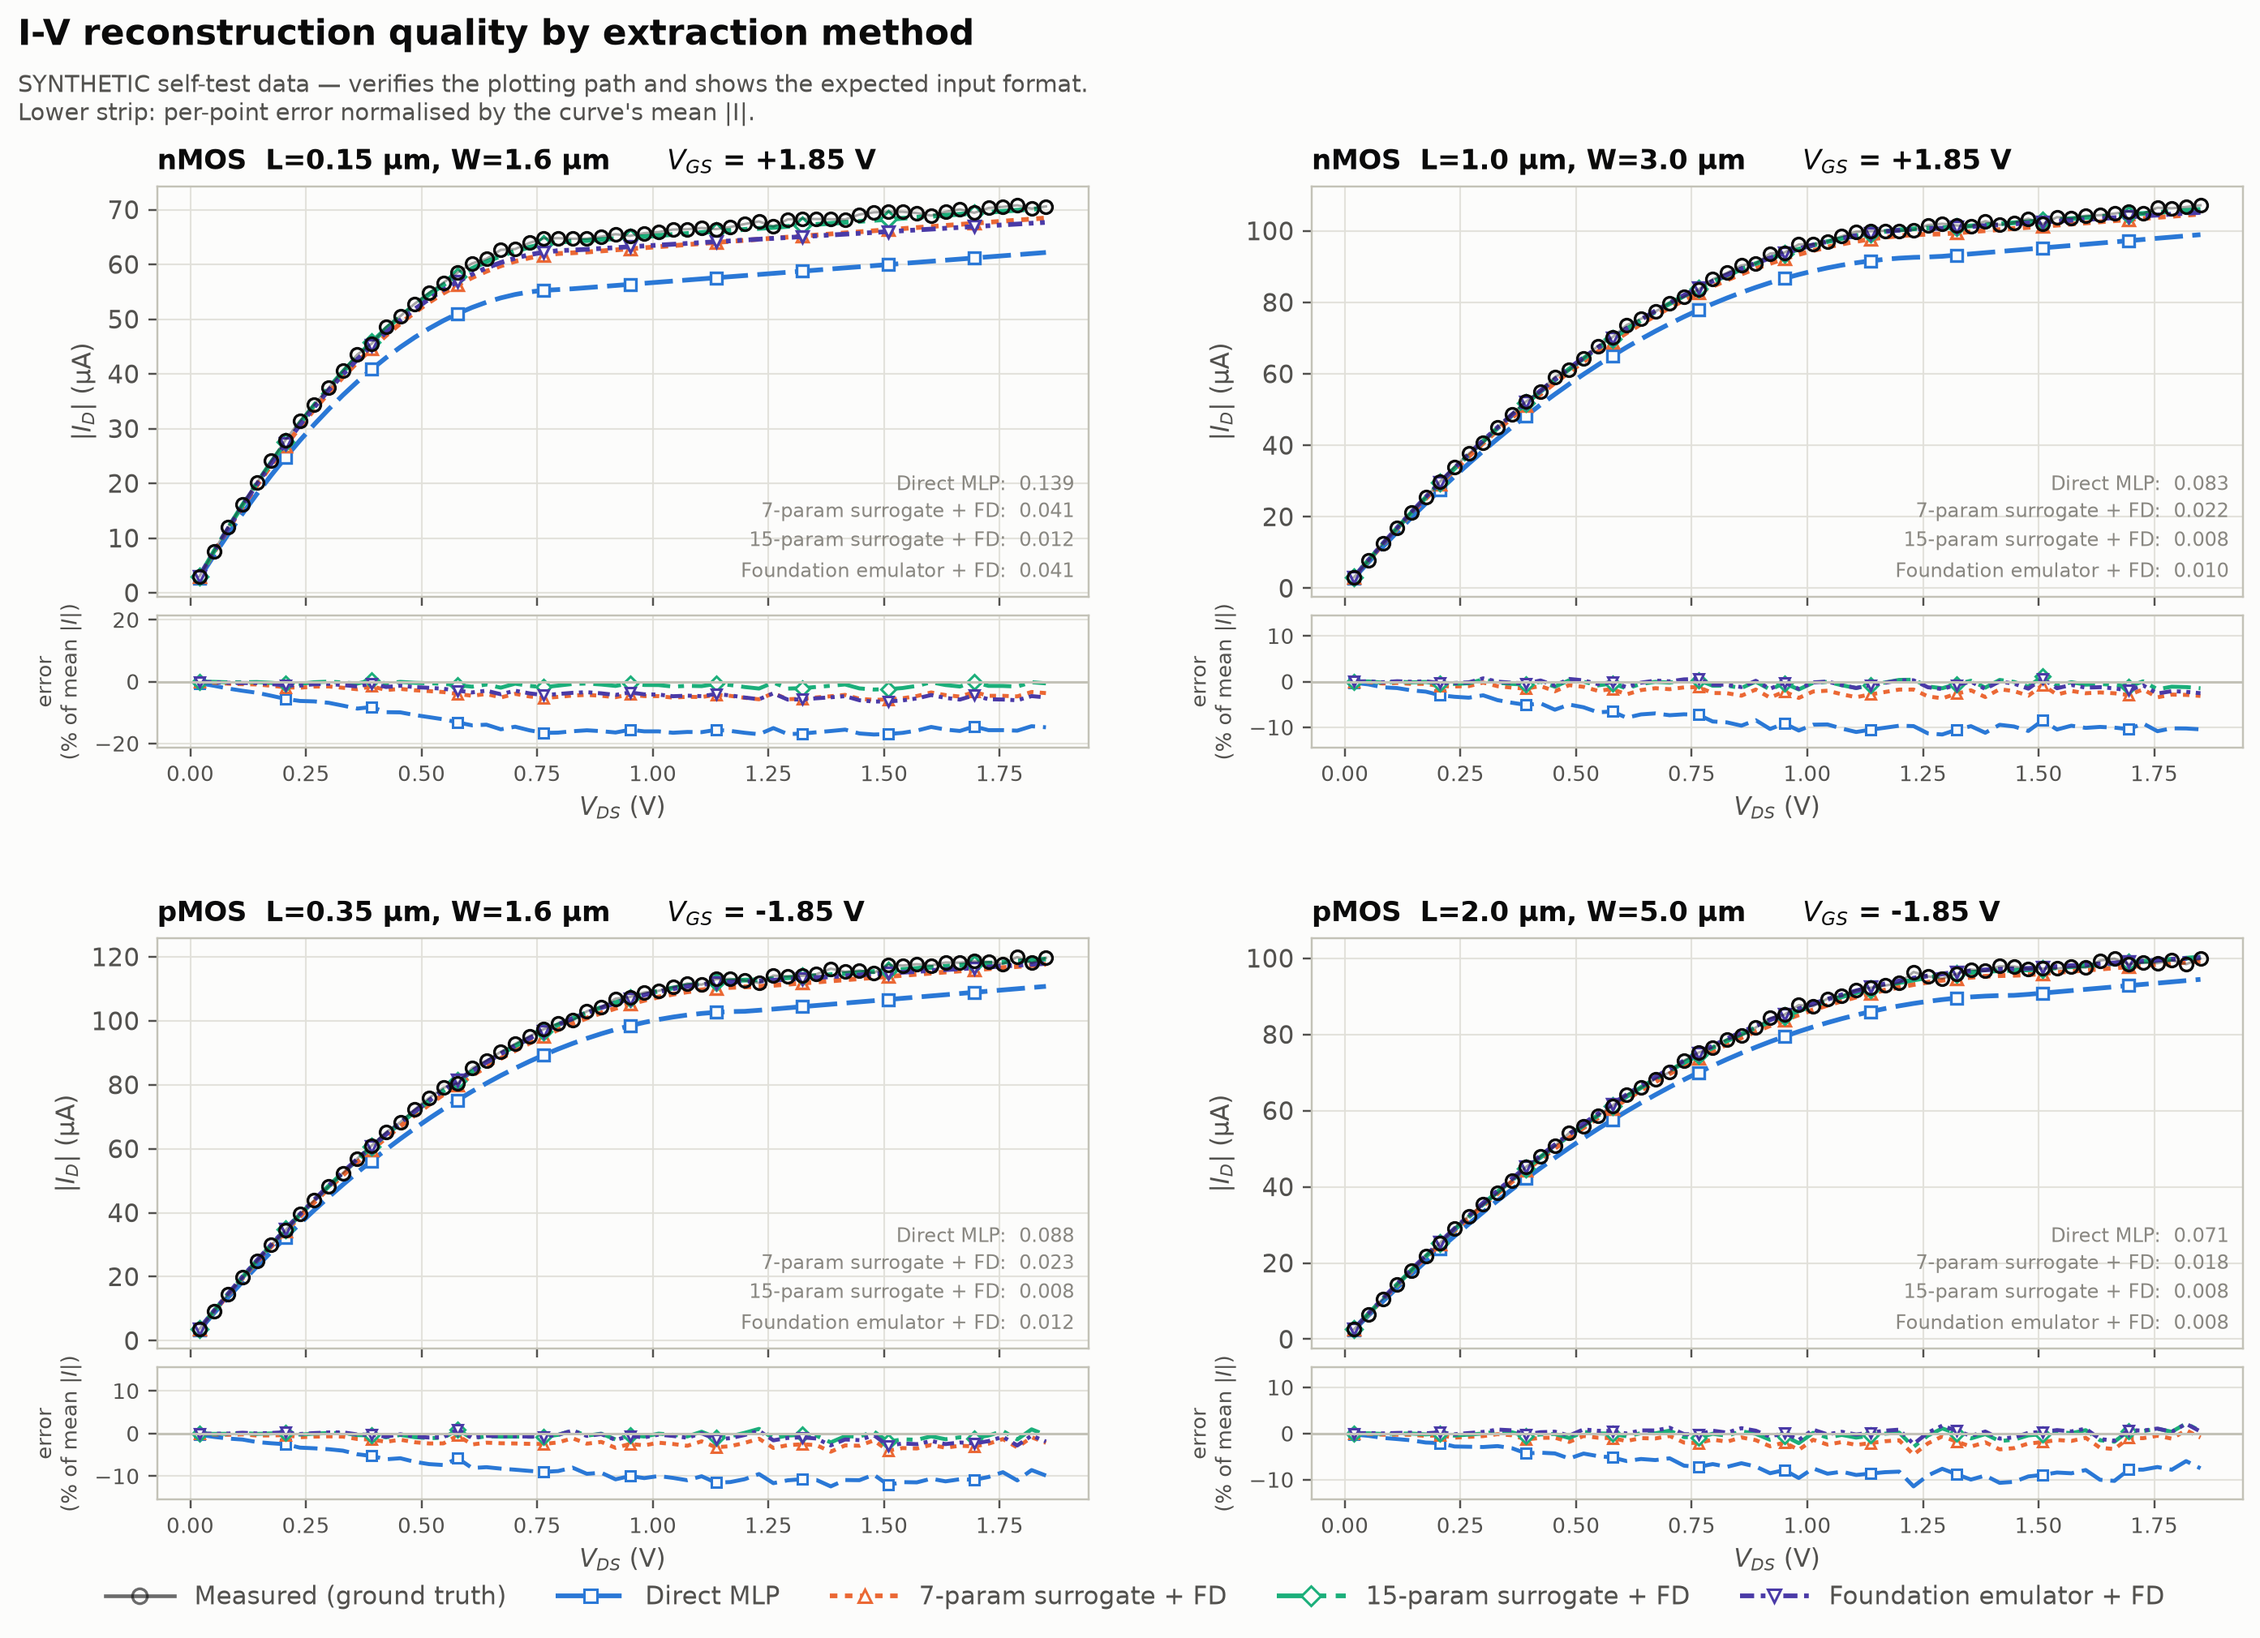
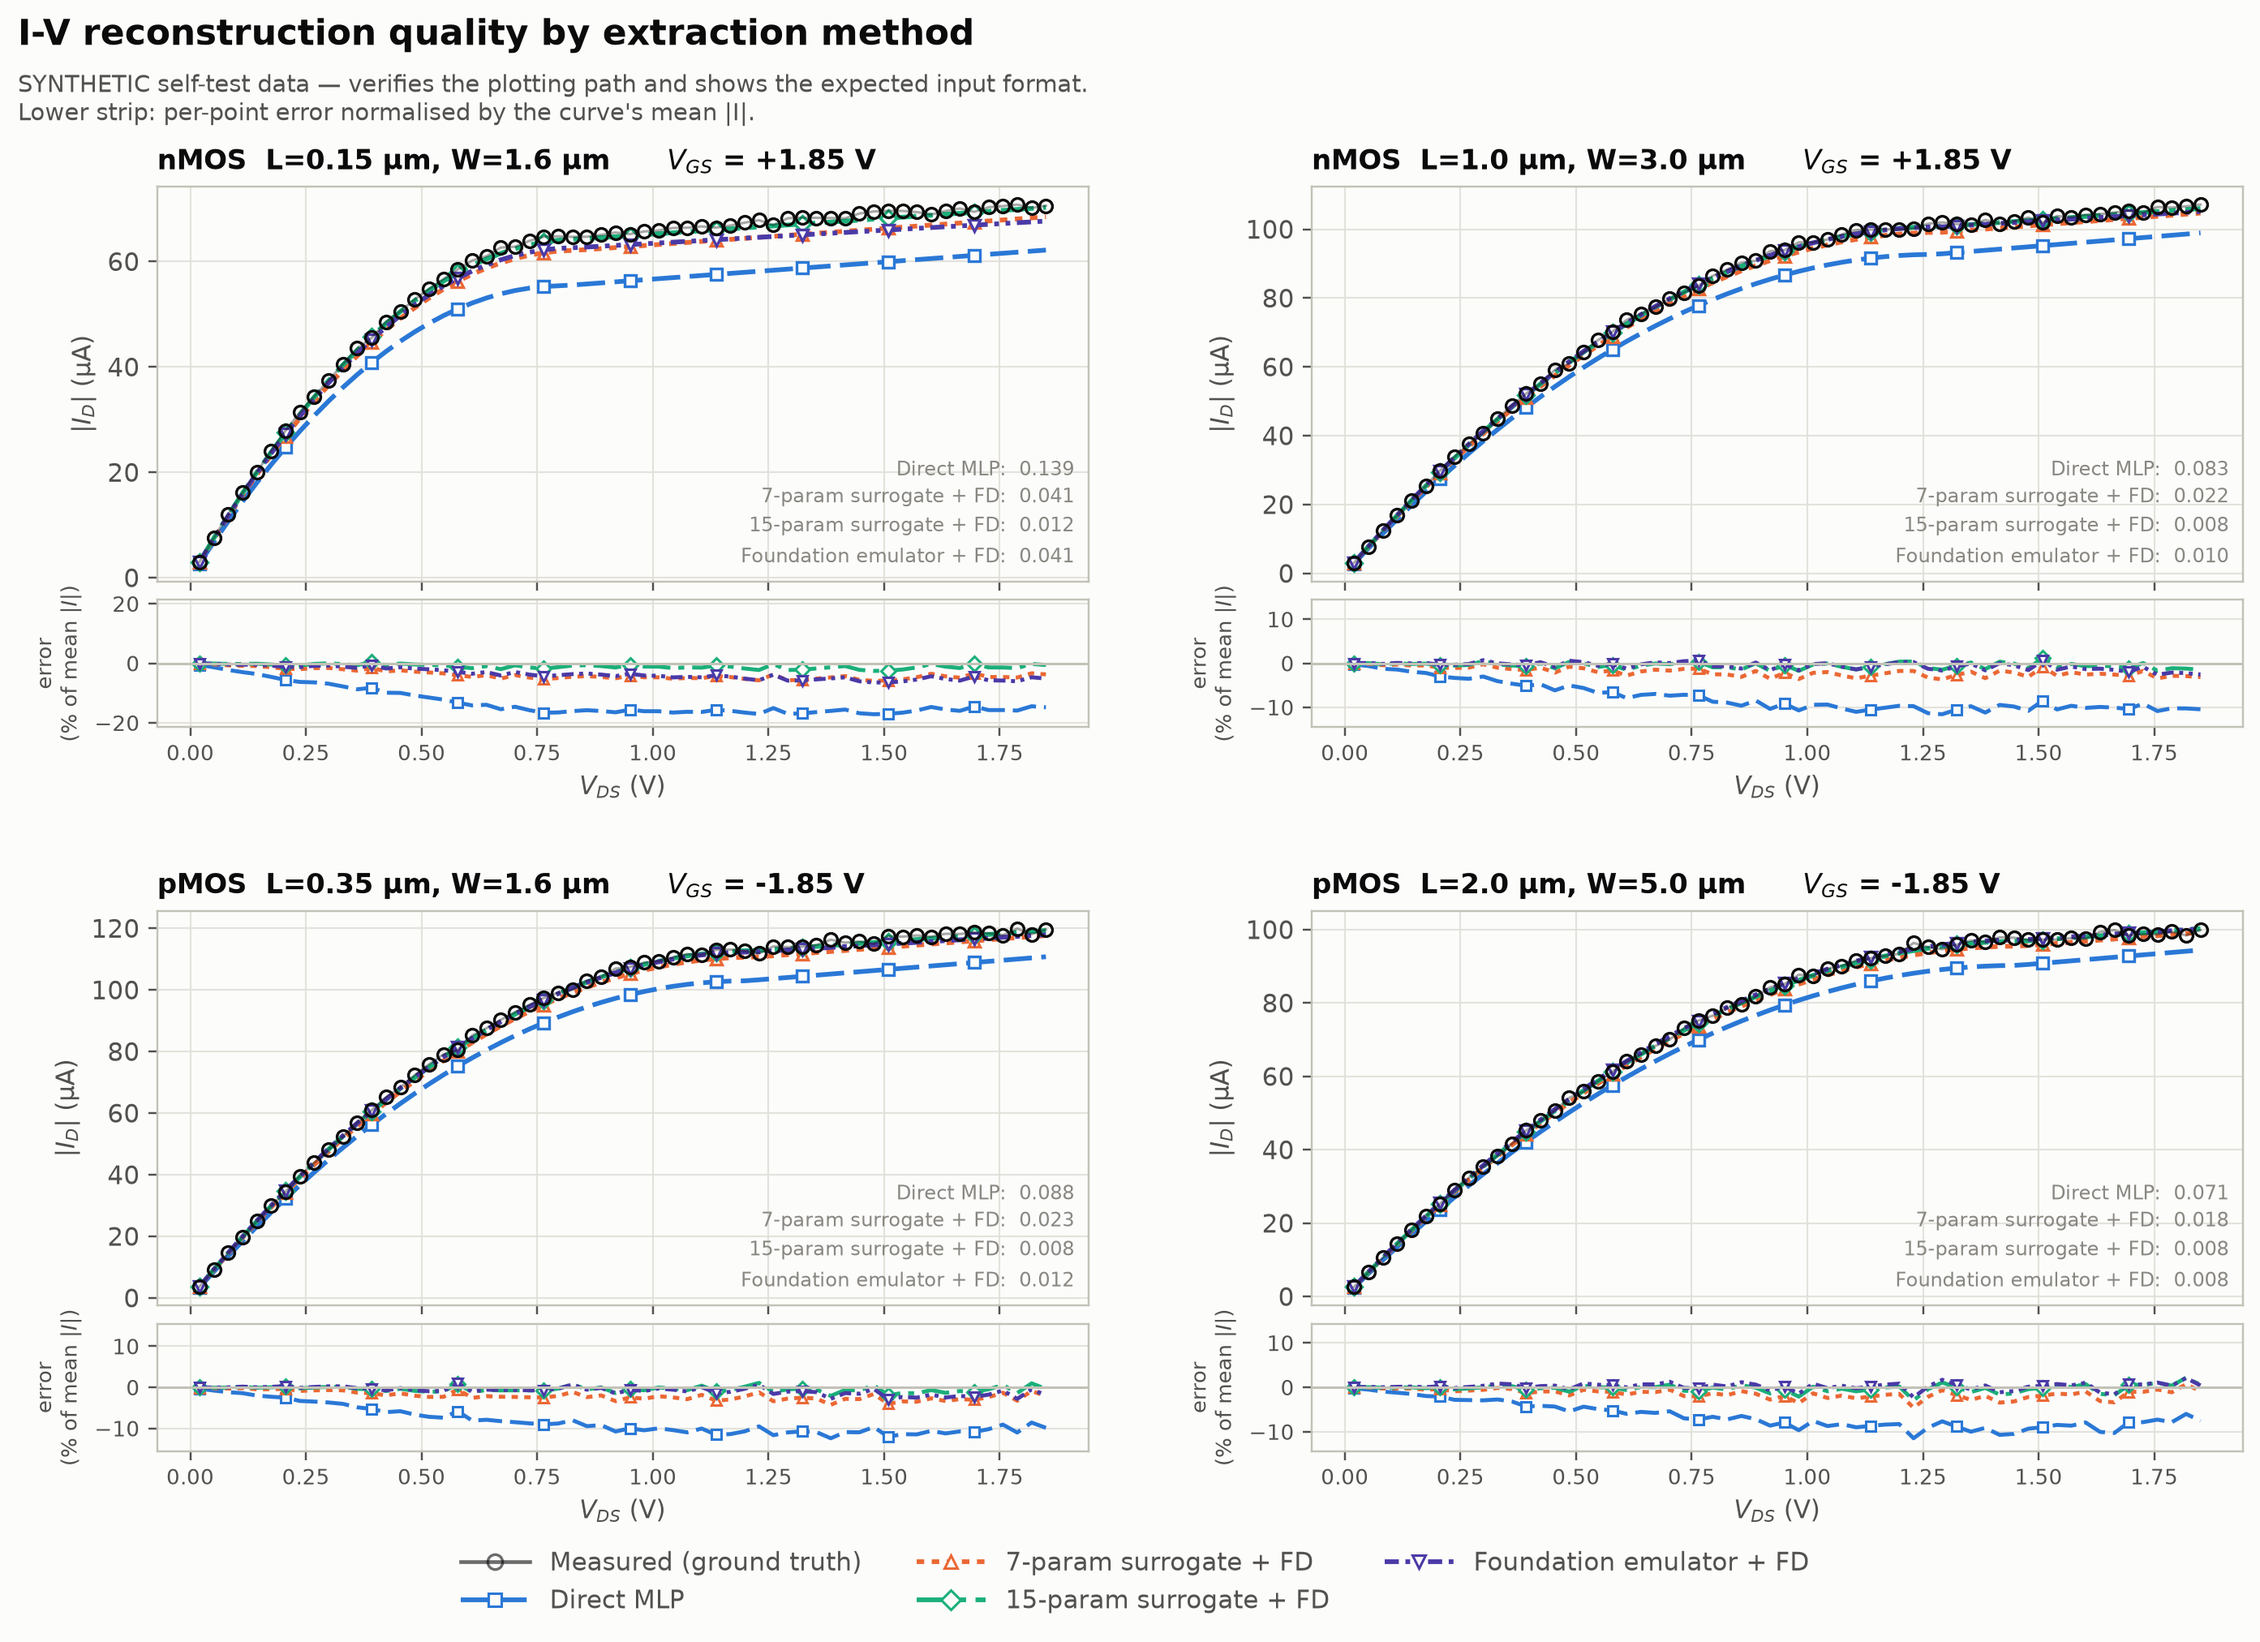
Plot four ML methods against measured I-V with a reference series
Adds an optional non-ML reference (the published card) drawn as neutral
chrome so it never consumes one of the four validated method colour
slots, and assembles four full-precision ML parameter vectors: the
canonical 7-param+FD from the exported card manifest, foundation+FD from
the foundation study, and 15-param raw/+FD from the params15 run.

Also restores the physical sign of the pMOS bias in panel notes (metric
tags carry |bias|), annotates per-curve RRMS, and sizes the bottom margin
from the legend's wrapped row count.

diff --git a/scripts/plot_iv_comparison.py b/scripts/plot_iv_comparison.py
@@ -70,6 +70,10 @@ class IVBlock:
     y_label: str = "$|I_D|$ (µA)"
     note: str = ""                      # e.g. "V_GS = 1.85 V"
     metrics: dict[str, float] = field(default_factory=dict)   # method -> RRMS
+    # Optional non-ML baseline (e.g. the published card). Drawn as neutral
+    # chrome so it never consumes one of the validated method colour slots.
+    reference: np.ndarray | None = None
+    reference_label: str = "Published card"
 
     def __post_init__(self) -> None:
         self.x = np.abs(np.asarray(self.x, dtype=np.float64))
@@ -84,6 +88,11 @@ class IVBlock:
                 raise ValueError(f"{self.title}/{name}: {pred.size} points, "
                                  f"x has {n}")
             self.predictions[name] = pred
+        if self.reference is not None:
+            self.reference = np.asarray(self.reference, dtype=np.float64)
+            if self.reference.size != n:
+                raise ValueError(f"{self.title}/reference: "
+                                 f"{self.reference.size} points, x has {n}")
 
 
 def _apply_style() -> None:
@@ -132,11 +141,16 @@ def plot_iv_blocks(
     nrows = int(np.ceil(len(blocks) / ncols))
     figsize = figsize or (6.4 * ncols, (4.6 if residuals else 3.7) * nrows)
     fig = plt.figure(figsize=figsize)
+    # Reserve bottom space for however many rows the legend will wrap to,
+    # so it never lands on the last row's x-labels.
+    legend_cols = 3
+    n_legend = len(methods) + 1 + (blocks[0].reference is not None)
+    bottom = 0.055 + 0.030 * int(np.ceil(n_legend / legend_cols))
     # Outer grid separates blocks; the inner pair (curve + residual strip)
     # stays tightly coupled, so a strip's x-label never lands on the next
     # block's title.
     gs = GridSpec(nrows, ncols, figure=fig, hspace=0.34, wspace=0.24,
-                  top=0.885 if suptitle else 0.965, bottom=0.085,
+                  top=0.885 if suptitle else 0.965, bottom=bottom,
                   left=0.072, right=0.985)
 
     for i, block in enumerate(blocks):
@@ -159,6 +173,15 @@ def plot_iv_blocks(
                 zorder=5)
         ax.plot(block.x, meas, "o", mfc="none", mec=MEASURED, mew=1.1,
                 ms=5.2, ls="none", zorder=6, label="Measured")
+
+        if block.reference is not None:
+            ax.plot(block.x, np.abs(block.reference) * scale, color=MUTED,
+                    ls=(0, (5, 3)), lw=1.6, zorder=3,
+                    label=block.reference_label)
+            if axr is not None:
+                axr.plot(block.x,
+                         (block.reference - block.measured) / denom * 100,
+                         color=MUTED, ls=(0, (5, 3)), lw=1.4)
 
         for name, pred in block.predictions.items():
             st = style[name]
@@ -198,19 +221,29 @@ def plot_iv_blocks(
             axr.set_xlabel(block.x_label, fontsize=10)
             axr.set_ylabel("error\n(% of mean $|I|$)", fontsize=8.5)
             axr.tick_params(labelsize=8.5)
+            spread = list(block.predictions.values())
+            if block.reference is not None:
+                spread.append(block.reference)
             lim = np.nanmax([np.nanmax(np.abs((p - block.measured) / denom))
-                             for p in block.predictions.values()]) * 100
+                             for p in spread]) * 100
             lim = max(float(lim) * 1.25, 1.0)
             axr.set_ylim(-lim, lim)
 
     handles = [Line2D([], [], color=MEASURED, marker="o", mfc="none", mew=1.1,
                       ms=6, ls="-", alpha=0.6, label="Measured (ground truth)")]
+    if blocks[0].reference is not None:
+        handles.append(Line2D([], [], color=MUTED, ls=(0, (5, 3)), lw=1.6,
+                              label=blocks[0].reference_label))
     handles += [Line2D([], [], color=style[m]["color"], ls=style[m]["ls"],
                        marker=style[m]["marker"], markerfacecolor=SURFACE,
                        lw=1.9, ms=5.4, label=m) for m in methods]
-    fig.legend(handles=handles, loc="lower center", ncol=len(handles),
-               fontsize=10, labelcolor=INK2,
-               bbox_to_anchor=(0.5, 0.004), handlelength=2.8)
+    # Cap the columns so a long method list wraps instead of stretching the
+    # whole figure to fit one legend row.
+    fig.legend(handles=handles, loc="lower center",
+               ncol=min(len(handles), legend_cols), fontsize=10,
+               labelcolor=INK2,
+               bbox_to_anchor=(0.5, 0.002), handlelength=2.8,
+               columnspacing=2.2)
 
     if suptitle:
         fig.suptitle(suptitle, fontsize=14.5, color=INK, x=0.011, ha="left",
@@ -285,6 +318,19 @@ def repo_blocks(device_tags: list[str], curve_kind: str = "idvd"):
     from cryoml.utils import device_tag                    # noqa: E402
 
     p15_dir = ROOT / "out" / "pdk15_surrogate"
+    # Canonical 7-param + FD vectors live per BIN in the exported card
+    # manifest; the foundation study stores them per device.
+    manifest = json.loads(
+        (ROOT / "out" / "pdk_ml_selected" / "cards" / "manifest.json"
+         ).read_text())
+    card_params = {d: b["params"] for b in manifest["bins"]
+                   for d in b["devices"]}
+    foundation_params = {
+        r["device"]: r["methods"]["foundation_emu_search+fd"]["params"]
+        for r in json.loads(
+            (ROOT / "out" / "tables" / "foundation_emulator_study.json"
+             ).read_text())["devices"]}
+
     blocks = []
     for tag in device_tags:
         dev = next(d for d in PAPER_DEVICES
@@ -300,24 +346,39 @@ def repo_blocks(device_tags: list[str], curve_kind: str = "idvd"):
         bias, curve = picks[-1]
         idx = next(i for i, c in enumerate(curves) if c is curve)
 
-        wanted = {"Published card": rec["params_by_method"]["published"],
-                  "15-param surrogate, raw":
-                      rec["params_by_method"]["emu_search"],
-                  "15-param surrogate + FD":
-                      rec["params_by_method"]["emu_search+fd"]}
+        # Four ML methods, every one a full-precision extracted vector.
+        wanted = {
+            "7-param surrogate + FD": card_params[tag],
+            "7-param foundation + FD": foundation_params[tag],
+            "15-param surrogate, raw": rec["params_by_method"]["emu_search"],
+            "15-param surrogate + FD":
+                rec["params_by_method"]["emu_search+fd"],
+        }
         preds = {}
         for name, params in wanted.items():
             sims = simulate_pdk(dev.dev_type, dev.L_um, dev.W_um, curves,
                                 params=params, bin_index=bin_index)
             preds[name] = np.asarray(sims[idx])[:len(curve.Id)]
+        ref_sims = simulate_pdk(dev.dev_type, dev.L_um, dev.W_um, curves,
+                                params=rec["params_by_method"]["published"],
+                                bin_index=bin_index)
+        reference = np.asarray(ref_sims[idx])[:len(curve.Id)]
 
         x = curve.Vd if curve_kind == "idvd" else curve.Vg
         fixed = "V_{GS}" if curve_kind == "idvd" else "V_{DS}"
+        # Metric tags carry |bias|; restore the physical sign for pMOS.
+        bias = -abs(bias) if dev.dev_type == "pmos" else abs(bias)
+        meas = np.asarray(curve.Id, dtype=np.float64)
+        den = float(np.mean(np.abs(meas)))
+        metrics = {name: float(np.sqrt(np.mean((p - meas) ** 2)) / den)
+                   for name, p in preds.items()} if den > 0 else {}
         blocks.append(IVBlock(
             title=f"{dev.dev_type.replace('mos', 'MOS')}  "
                   f"L={dev.L_um:g} µm, W={dev.W_um:g} µm",
             x=np.asarray(x)[:len(curve.Id)], measured=np.asarray(curve.Id),
             predictions=preds, note=f"${fixed}$ = {bias:+.2f} V",
+            metrics=metrics, reference=reference,
+            reference_label="Published card (paper parameters)",
             x_label="$|V_{DS}|$ (V)" if curve_kind == "idvd"
                     else "$|V_{GS}|$ (V)"))
     return blocks
